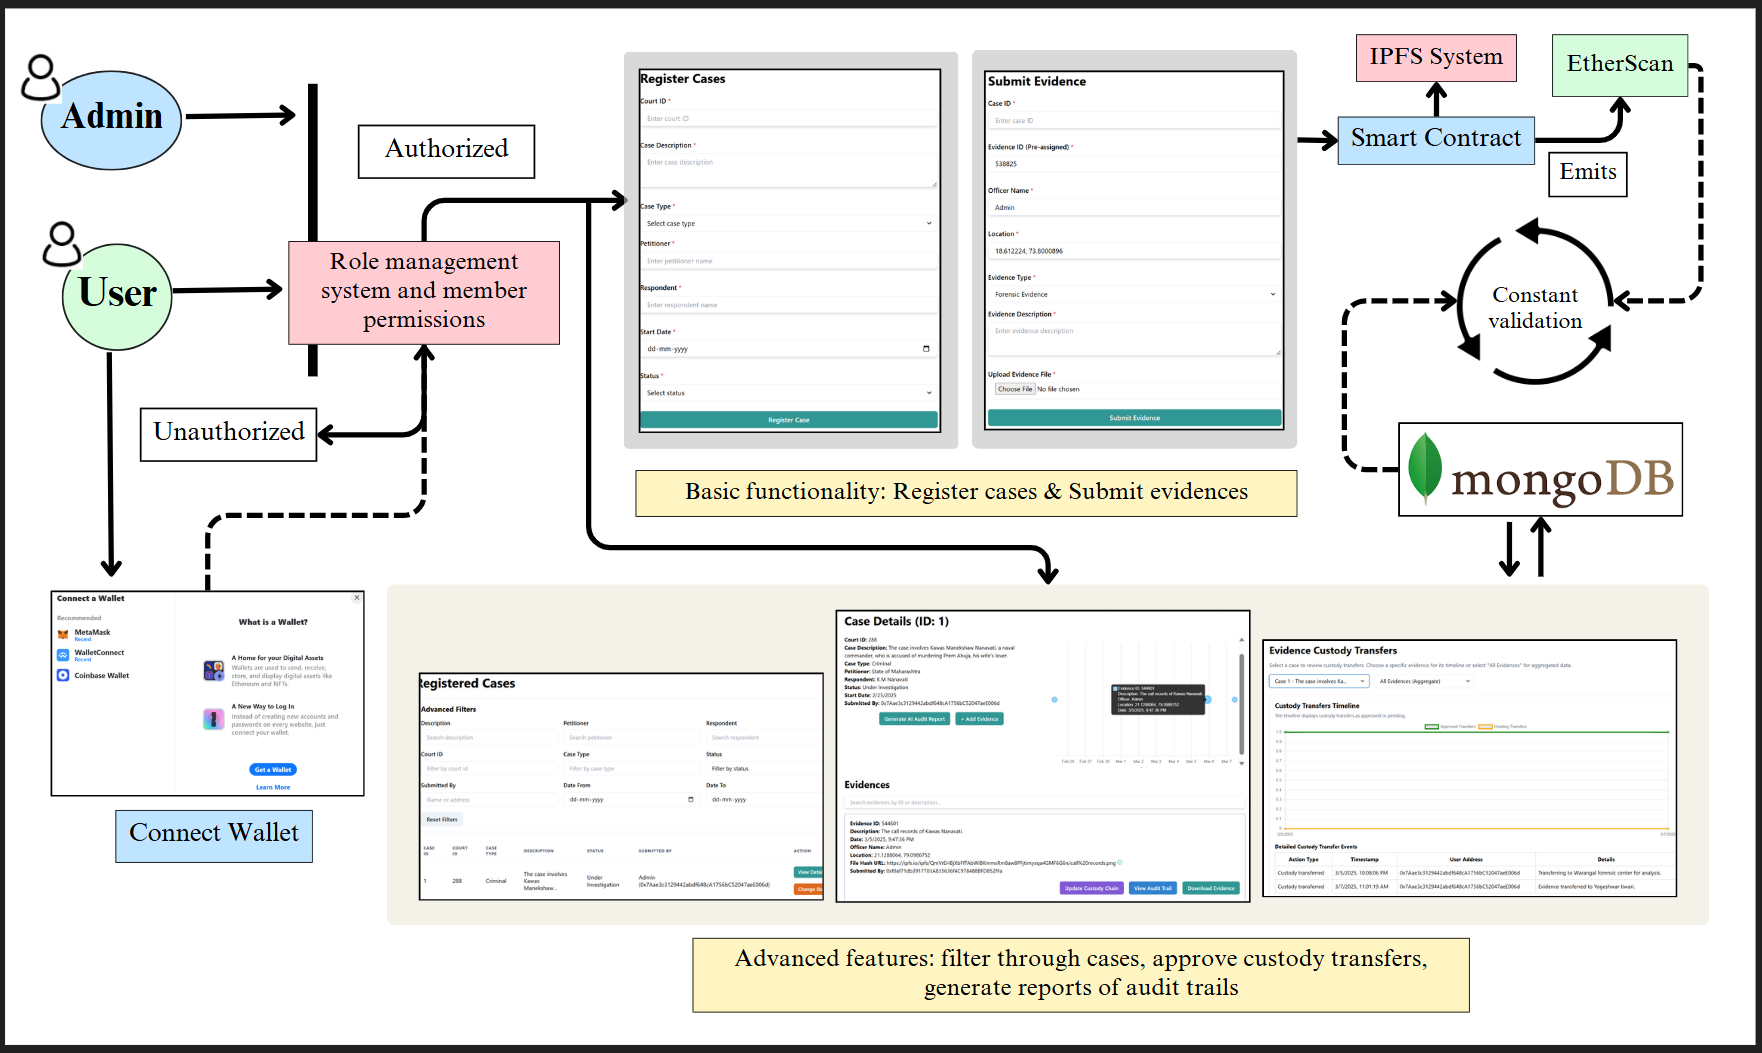
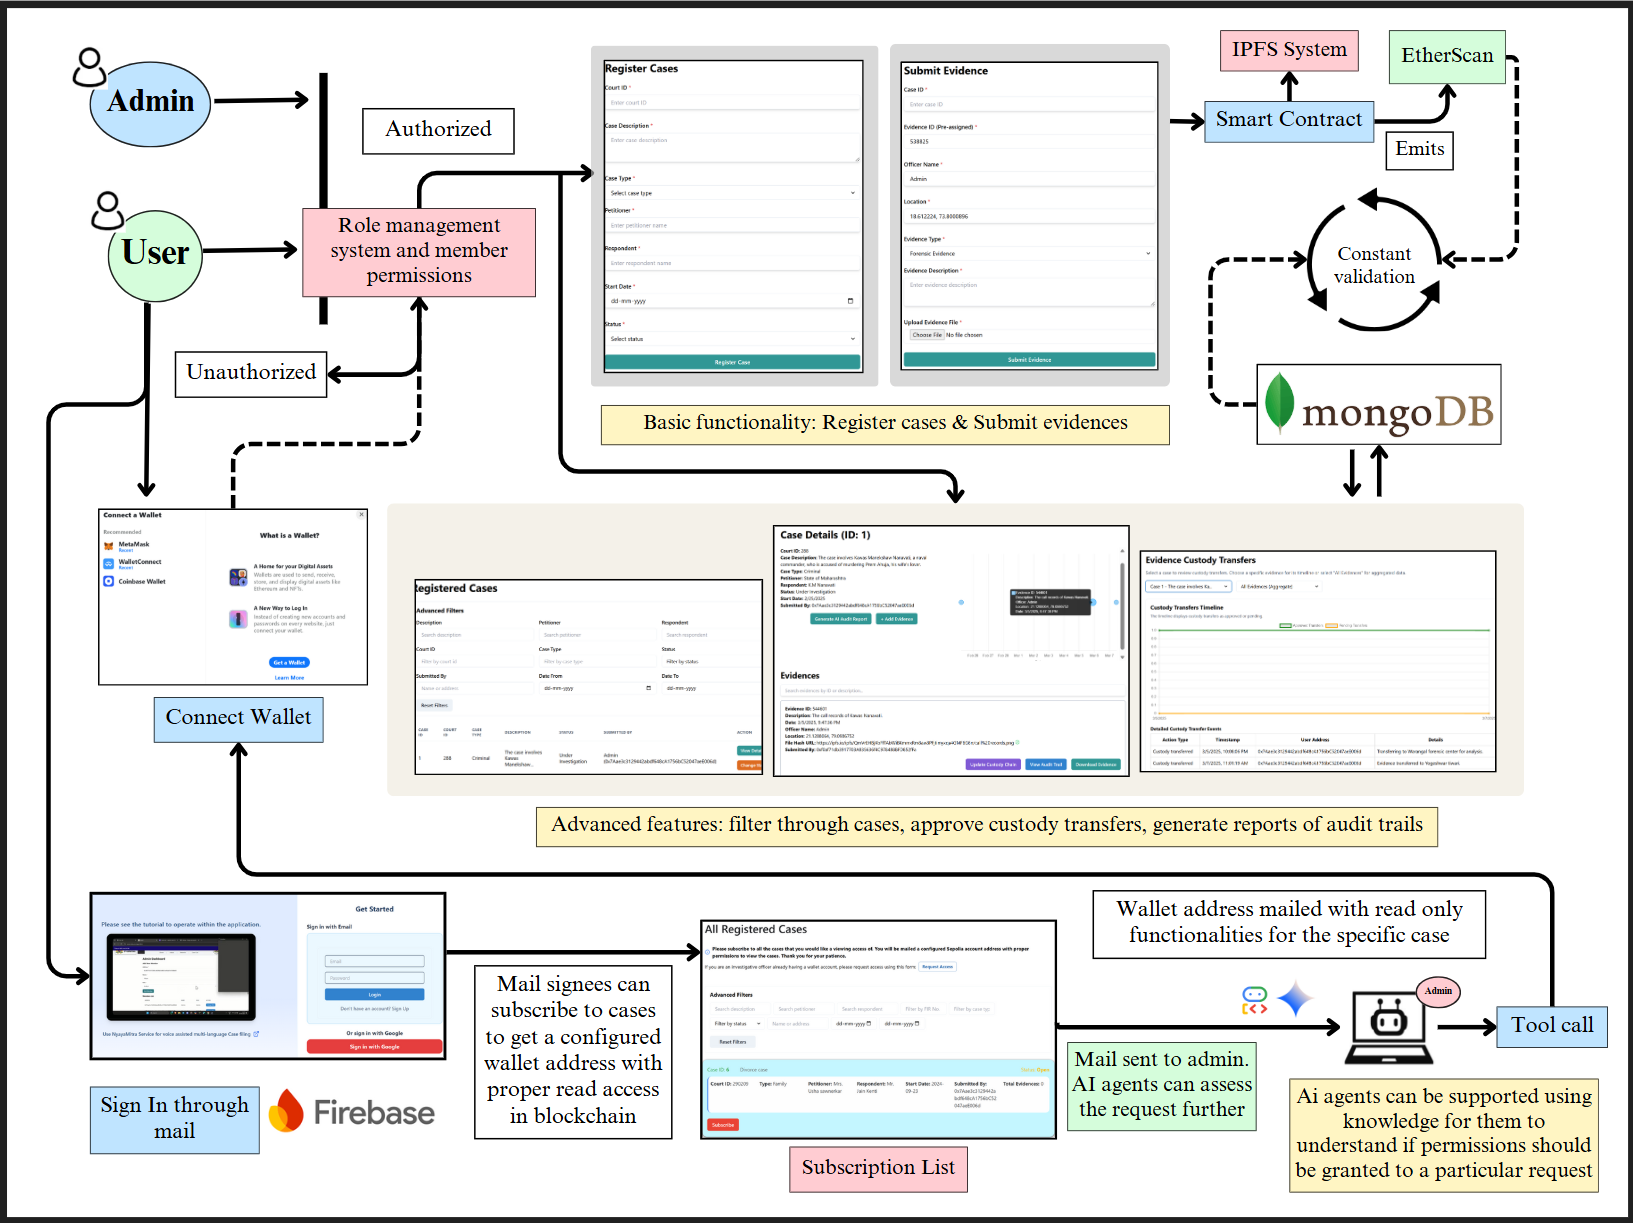
Added proper docs for all changes, shifted gemini models

diff --git a/app/cases/[caseId]/page.tsx b/app/cases/[caseId]/page.tsx
@@ -362,7 +362,7 @@ Timestamp: ${new Date(evidence.timestamp * 1000).toLocaleString()}`
           .join("\n")}
 `;
       const llm = new ChatGoogleGenerativeAI({
-        model: "gemini-1.5-pro",
+        model: "gemini-2.0-flash",
         temperature: 0,
         apiKey: process.env.NEXT_PUBLIC_GOOGLE_API_KEY,
       });
@@ -1034,8 +1034,8 @@ Timestamp: ${new Date(evidence.timestamp * 1000).toLocaleString()}`
                     <AiOutlineCheckCircle className="text-green-500 text-m cursor-pointer" />
                     <span
                       className={`absolute bottom-full left-1/2 transform -translate-x-1/2 mb-1 w-40 bg-black text-white text-center text-xs rounded py-1 transition-opacity duration-300 ${tooltipVisible
-                          ? "opacity-100"
-                          : "opacity-0 group-hover:opacity-100"
+                        ? "opacity-100"
+                        : "opacity-0 group-hover:opacity-100"
                         }`}
                     >
                       Validated with EtherScan

diff --git a/app/api/ai-chat/route.js b/app/api/ai-chat/route.js
@@ -23,7 +23,7 @@ export async function POST(req) {
 
     // Initialize the ChatGoogleGenerativeAI instance using Gemini 1.5 Pro
     const llm = new ChatGoogleGenerativeAI({
-      model: "gemini-1.5-pro",
+      model: "gemini-2.0-flash",
       temperature: 0.5,
       apiKey: process.env.NEXT_PUBLIC_GOOGLE_API_KEY,
     });

diff --git a/Docs/UserJourneys.md b/Docs/UserJourneys.md
@@ -1,0 +1,46 @@
+***The new version of TraceX features new User Journeys supported via firebase authentication and storage.***
+
+1. We now allow users who do not have a preconfigured wallet address on the blockchain to sign up on TraceX using email or OAuth via Firebase authentication.
+2. After signing up, users can choose from a list of registered cases within the application. When the Subscribe button is clicked, an email is sent to the Admin and AI agents. These agents assess the validity of the request and the permission sought in relation to the selected case. Based on this evaluation, the Admin agent configures a wallet address and sends it back to the subscriber, along with instructions on how to import the account into MetaMask. The user can then proceed with a viewer role within the application by connecting their wallet.
+3. The user can now view and follow the evidence trails and all details related to the case they are subscribed to.
+4. Subscription data and user-specific information are stored using Firebase Storage.
+
+**How this helps:** 
+1. This additional user journey significantly expands the scope and user base of the application. It is no longer limited to investigative officers or organizations with read-write access, but also includes individuals who can subscribe to cases and gain view-only access to all evidence trails and related details. 
+2. This feature has the potential to revolutionize how cases are handled by making the entire process more transparent and trustworthy, furthering the cause of social justice and aligning with ***UN SDG 16. Peace, Justice and Strong Institutions.***
+
+### New UserFlow diagram:
+![Userflow diagram](../assets/userflow.png)
+
+The user journeys after the granting of the correct wallet address within the Sepolia chain almost remains same. The user now gets a full view of the Audit trails and etherscan tamper reports of all the evidences related to a particular case and can issue more requests using the case viewer page.
+
+***A guide to Requesting proper access within the system if you are Just a viewer:***
+1. Click on the get started button in the homepage itself. 
+2. You will be routed to a signup/signin page where you can either signin through your mail or your google account.
+
+<center>
+<img src="../assets/get-started.png" width="500"/></center><br/><br/>
+
+3. Next you will be allowed to choose from a list of cases which has been registered within the platform. You must only subscribe to the cases for which you want a viewing access of the evidences and details related to the case. 
+
+<center>
+<img src="../assets/caseviewer.png" width="500"/></center><br/><br/>
+
+4. An email is sent to Admin Agent as soon as the subscribe button is clicked. You will also receive a confirmation mail for the application. 
+
+<center>
+<img src="../assets/Mail2.png" width="400"/></center><br/><br/>
+
+For now admin agent will reply to all requests with a valid wallet account address with proper configs and permision to view that case.
+
+***If you are an investigative officer with an already valid wallet address and wish to request a proper role within the application for CRUD functionalities then you will be routed to "/request-access" or you can visit:***
+
+-- <a href="https://tracex-drab.vercel.app/request-access">Request Access (for roles)</a>
+
+**Note:** This step is not for the users who get their wallet address from the system itself, their accounts will already be configured with proper permissions.
+
+Please relocate here if you wish to see what's more in store in the refined TraceX: 
+
+<a href="" target="_blank">
+    <img src="https://img.shields.io/badge/See%20What's%20New-Click%20Here-darkblue?style=for-the-badge" alt="Understand the Solution Button"/>
+  </a>

diff --git a/Docs/Refinements.md b/Docs/Refinements.md
@@ -1,0 +1,26 @@
+***Drastic changes have been made to adopt Google Technologies within the system to further Global good. Following is a list of changes that were made in the prototype refinement phase and the Google Dev tools they adopt:***
+
+1. We have successfully integrated Google Maps into our platform, enabling Collectors and Analysts to define and manage routes for the secure transfer of physical evidence during custody handovers. Each transfer is geotagged, with route coordinates systematically stored in MongoDB. Leveraging the **Google Maps API** and high-resolution tiles from **Google Earth Engine**, the system provides real-time tracking and precise route recording, ensuring enhanced transparency and accountability throughout the evidence transfer process. (See figure 1)
+
+2. We have further integrated with **Firebase** as mentioned here:
+    - <a href="">Know more about User Journeys</a><br>
+
+    - Firebase integration now allows us to store user related information like subscription list (for cases) and also authenticate using OAuth and Mail extremely efficiently. (See Figure 2) 
+
+3. We have made more Integration with **Google AI** using more advanced Gemini models like gemini-flash-2.0 for chatbots and also use AI agents using **Google Agents ADK** to process mails and automate the process of account address creation in web3 and subsequent handling of the mail to the user who requested access to a particular case in subscription list. (See figure 3)
+
+4. We have intorduced a completely new use case within our application for more social good. This new feature of TraceX is called "NyayaMitra". It is integrated with **Google Cloud text-to-speech, Gemini and Google Translate** for allowing users of various backgrounds to fill out case/law related forms with ease. We use voice assistance in multiple languages to guide the user in filling forms which may seem too complex. Thus TraceX now has a new cause of bringing Justice to more underprivileged communities and people who may not have the means to fill out legal forms with the assitance of **Google AI**. (See Figure 4)
+
+<br><br>
+
+| Figure 1: Google Maps Use                             | Figure 2: Firebase Authentication and Storage        |
+|-------------------------------------------------------|------------------------------------------------------|
+| ![validating routes](../assets/googlemaps.png)       | ![custody transfer routes](../assets/get-started.png)  |
+
+| Figure 3: Google AI                                   | Figure 4: NyayaMitra                                 |
+|-------------------------------------------------------|------------------------------------------------------|
+| ![Google AI](../assets/ai.png)               | ![NyayaMitra](../assets/nm.png)              |
+
+
+
+

diff --git a/README.md b/README.md
@@ -13,6 +13,17 @@ npm i
 ```bash
 npm run dev
 ```
+
+Please Use the following links to know more about the refined version:<br><br>
+<a href="" target="_blank">
+    <img src="https://img.shields.io/badge/See%20What's%20New-Click%20Here-darkblue?style=for-the-badge" alt="DOCS Button"/>
+  </a>
+
+  <a href="" target="_blank">
+    <img src="https://img.shields.io/badge/New%20User%20Journeys-Click%20Here-pink?style=for-the-badge" alt="docs Button"/>
+  </a>
+
+
 ### UserFlow diagram:
 ![Userflow diagram](assets/userflow.png)
 
@@ -28,6 +39,16 @@ npm run dev
 ### Watch our video to understand how to use the features: 
 [![Watch the video](https://img.youtube.com/vi/QYnjaIpiTPc/0.jpg)](https://www.youtube.com/watch?v=QYnjaIpiTPc)
 
+Please see the user-journeys readme
+<a href="">here</a> to know more about how to access the application properly
+
+------------- Previous version -------------<br>
+
 **Note:** In order to access the application fully in deployed mode, you must first have a proper role that can only be assigned by the Admin. You will be automatically re-routed to the form where you can submit the application. On successful processing you will get the confirmation email.<br/>
-<br/><img src="assets/mail.png" alt="email" width="500"/>
+<br/><img src="assets/mail.png" alt="email" width="500"/><br>
+
+
+
+
+
 
